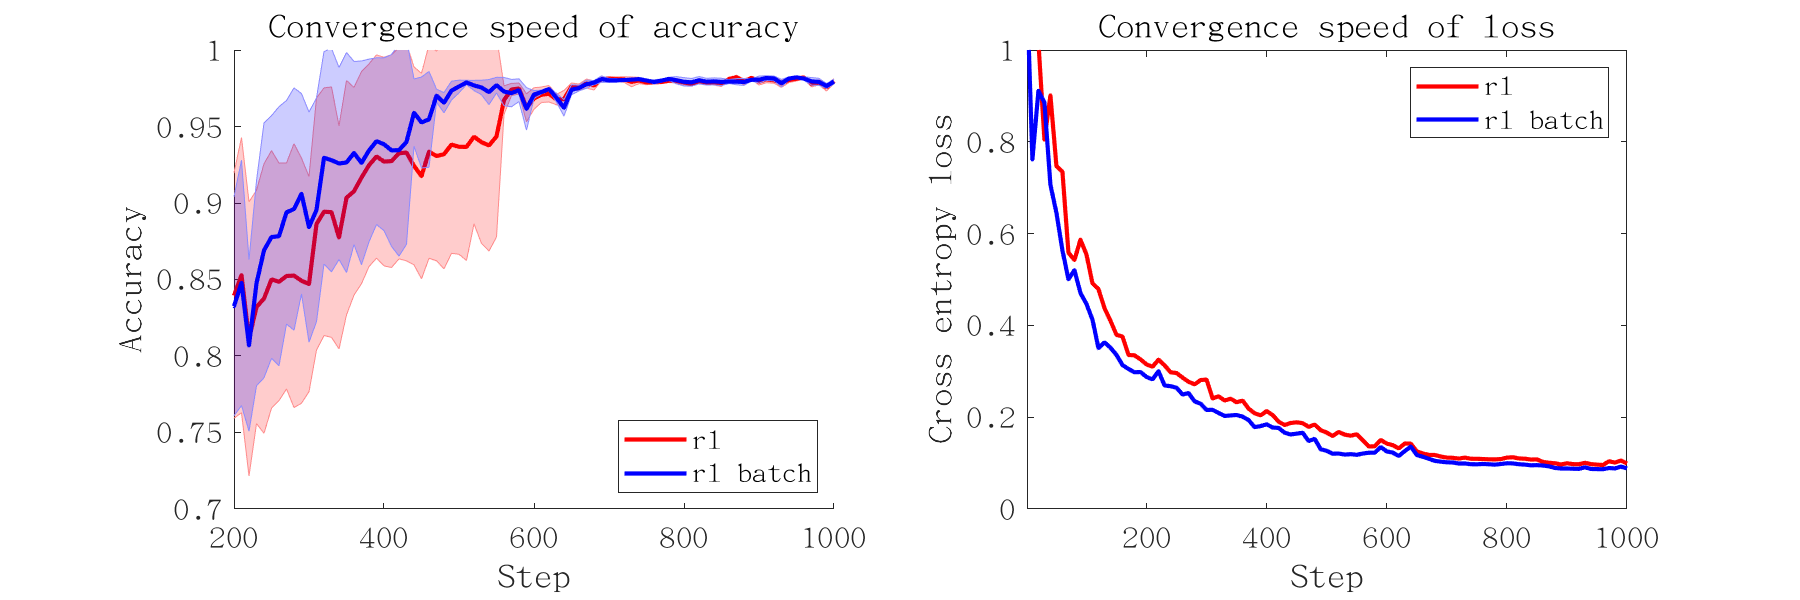
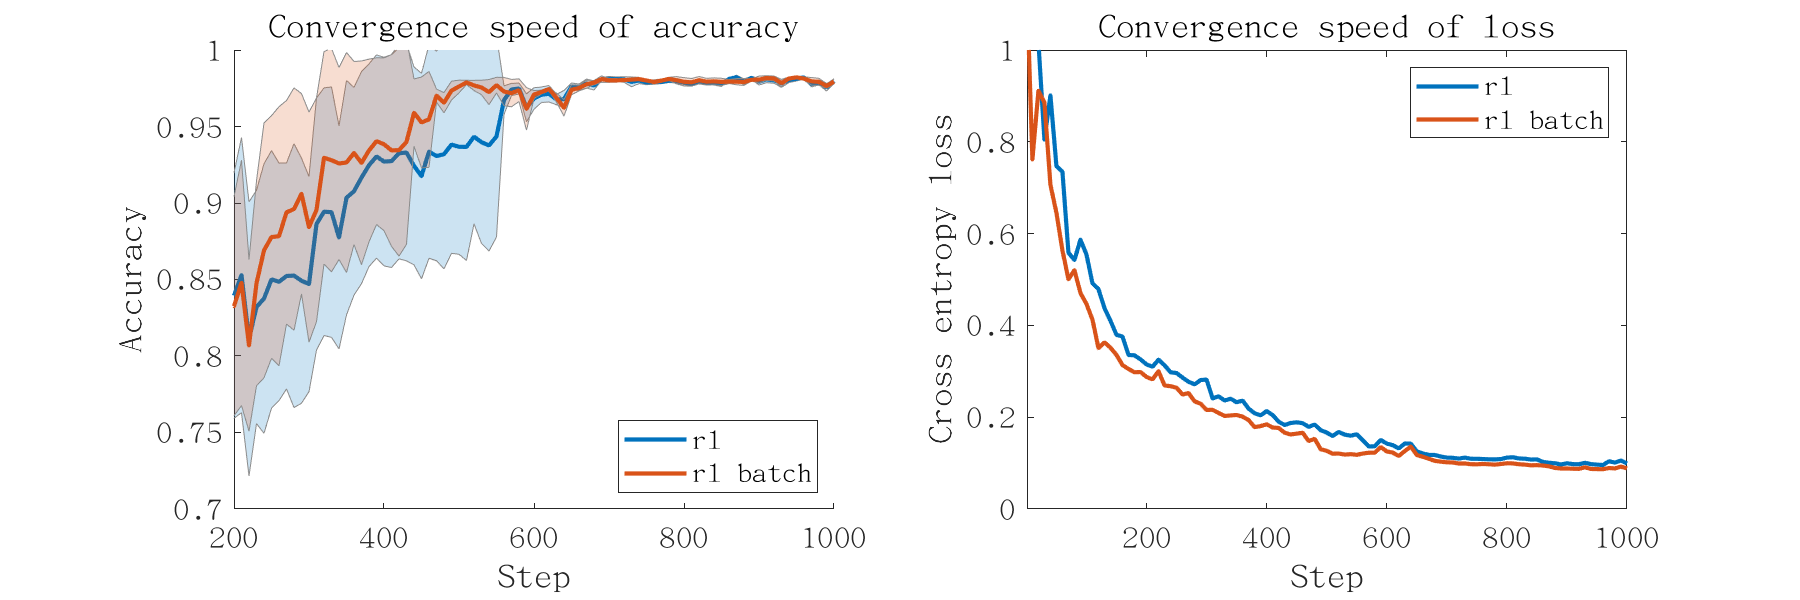
add

diff --git a/experiment/mnist/train_history/plot_convergence_acc.m b/experiment/mnist/train_history/plot_convergence_acc.m
@@ -31,11 +31,15 @@ batch_loss_all = mean(batch_loss_all,1);
 figure(1)
 fig_para = fig_paramter();
 subplot(1,2,1);
-s = shadedErrorBar(step_index,rl_acc_all_mean,rl_acc_all_std,"lineprops",'r');
-set(s.mainLine,"LineWidth",fig_para.linewidth)
+shaded_error_bar = shadedErrorBar(step_index,rl_acc_all_mean,rl_acc_all_std);
+shaded_error_bar.mainLine.LineWidth = fig_para.linewidth;
+shaded_error_bar.mainLine.Color = fig_para.colors(1,:);
+shaded_error_bar.patch.FaceColor = fig_para.colors(1,:);
 hold on;
-s = shadedErrorBar(step_index,batch_acc_all_mean,batch_acc_all_std,"lineprops",'b');
-set(s.mainLine,"LineWidth",fig_para.linewidth)
+shaded_error_bar = shadedErrorBar(step_index,batch_acc_all_mean,batch_acc_all_std);
+shaded_error_bar.mainLine.LineWidth = fig_para.linewidth;
+shaded_error_bar.mainLine.Color = fig_para.colors(2,:);
+shaded_error_bar.patch.FaceColor = fig_para.colors(2,:);
 xlabel("Step","FontSize", fig_para.fontsize);
 ylabel("Accuracy","FontSize", fig_para.fontsize);
 set(gca, "FontSize", fig_para.fontsize);
@@ -43,7 +47,9 @@ legend("rl","rl batch","Location","SouthEast")
 axis([200,inf,0.7,1])
 title("Convergence speed of accuracy")
 subplot(1,2,2);
-plot(step_index,rl_loss_all,"r",step_index,batch_loss_all,"b","LineWidth",fig_para.linewidth);
+plot(step_index,rl_loss_all,"Color",fig_para.colors(1,:),"LineWidth",fig_para.linewidth);
+hold on;
+plot(step_index,batch_loss_all,"Color",fig_para.colors(2,:),"LineWidth",fig_para.linewidth);
 legend("rl","rl batch");
 xlabel("Step","FontSize", fig_para.fontsize);
 ylabel("Cross entropy loss","FontSize", fig_para.fontsize);
